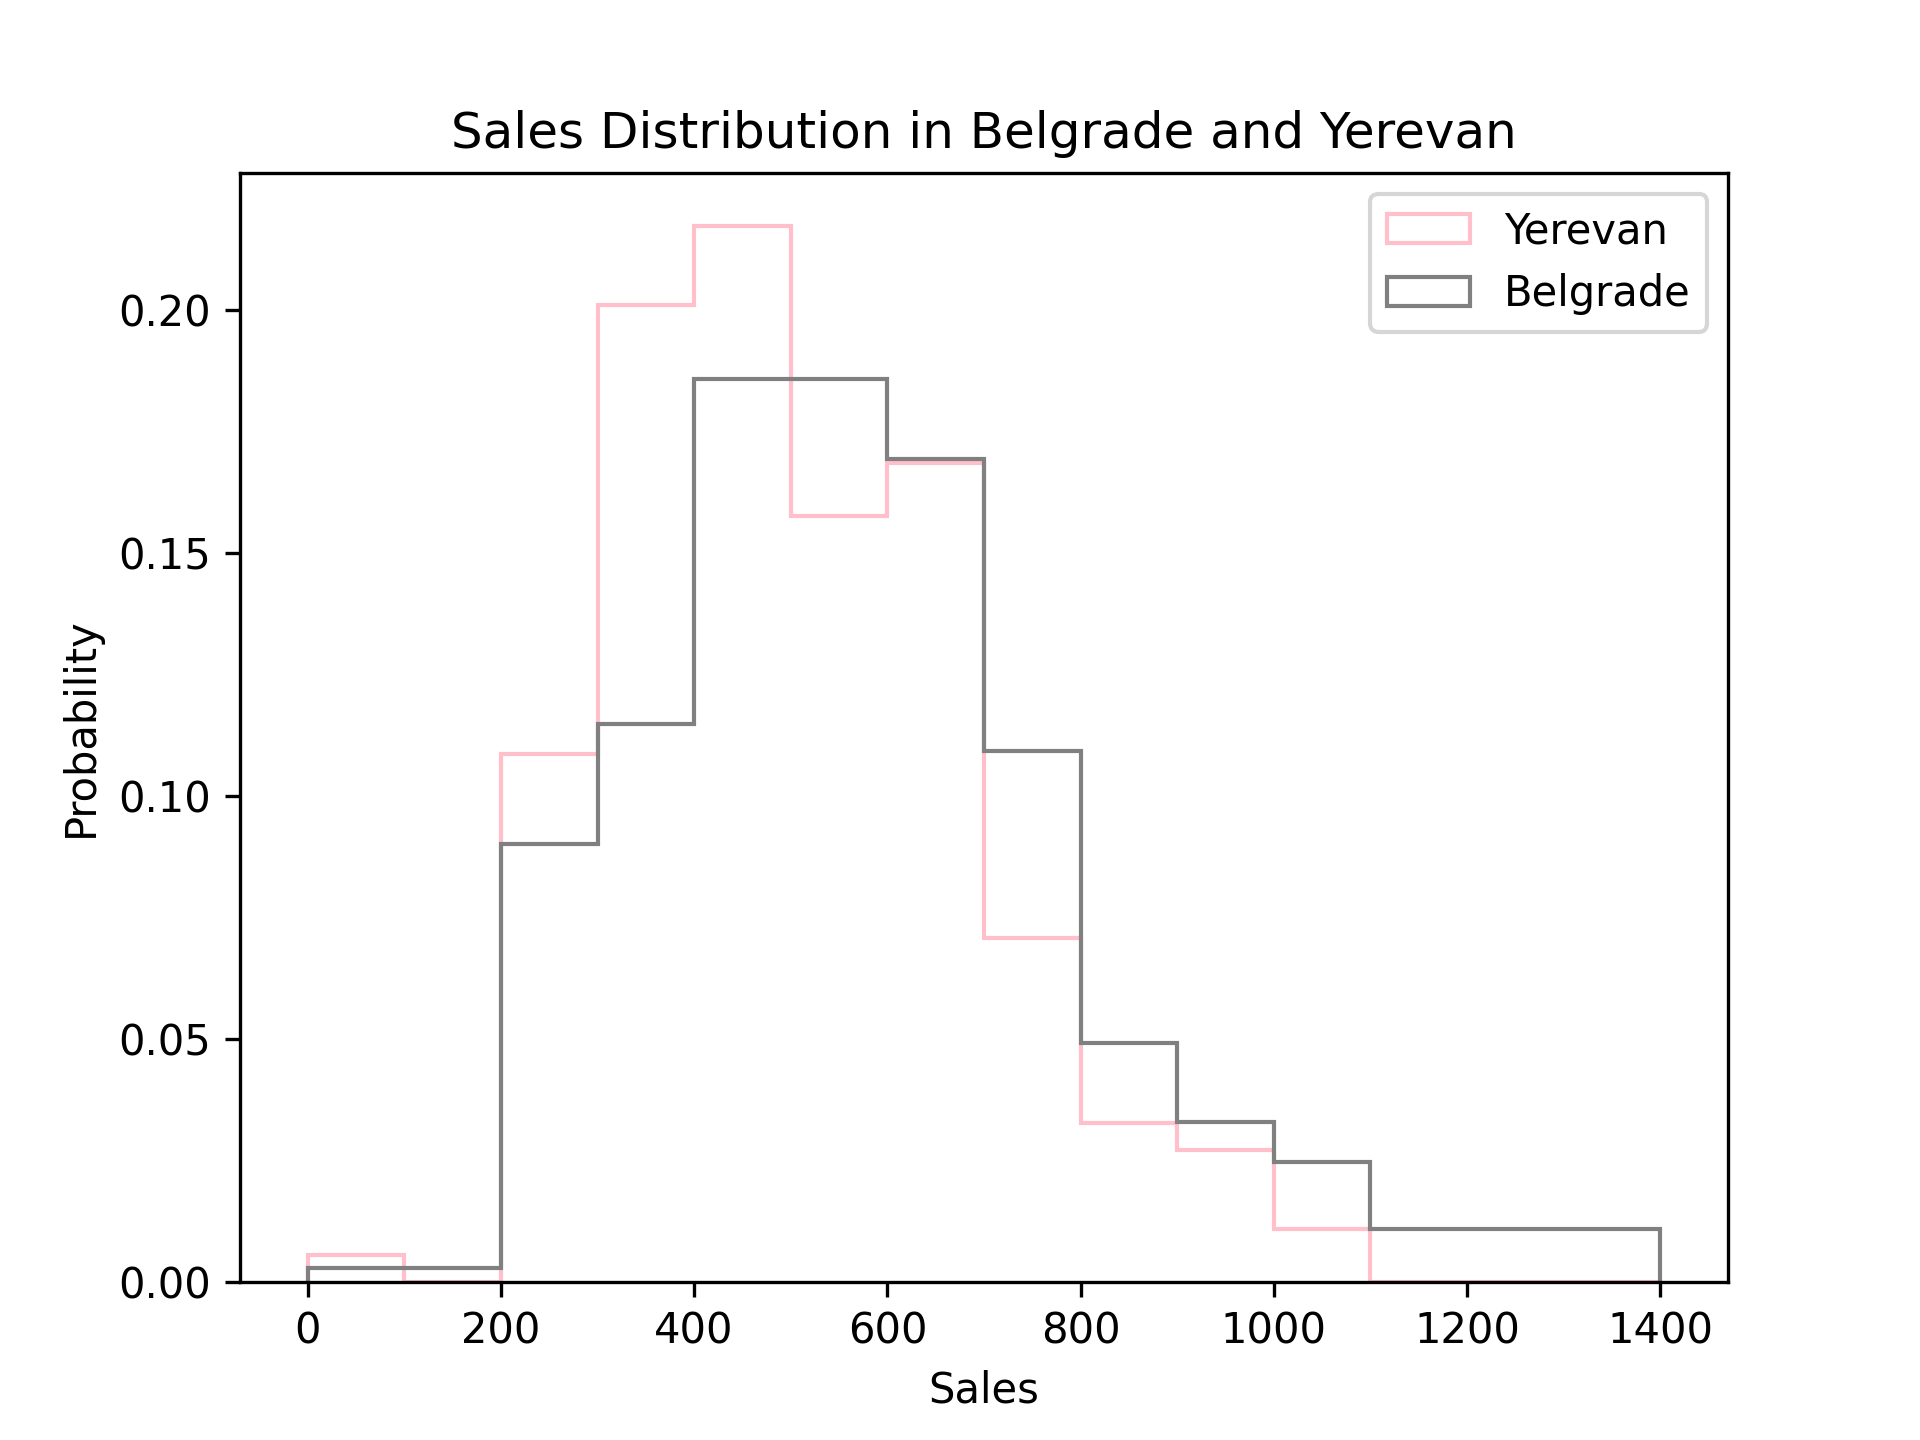
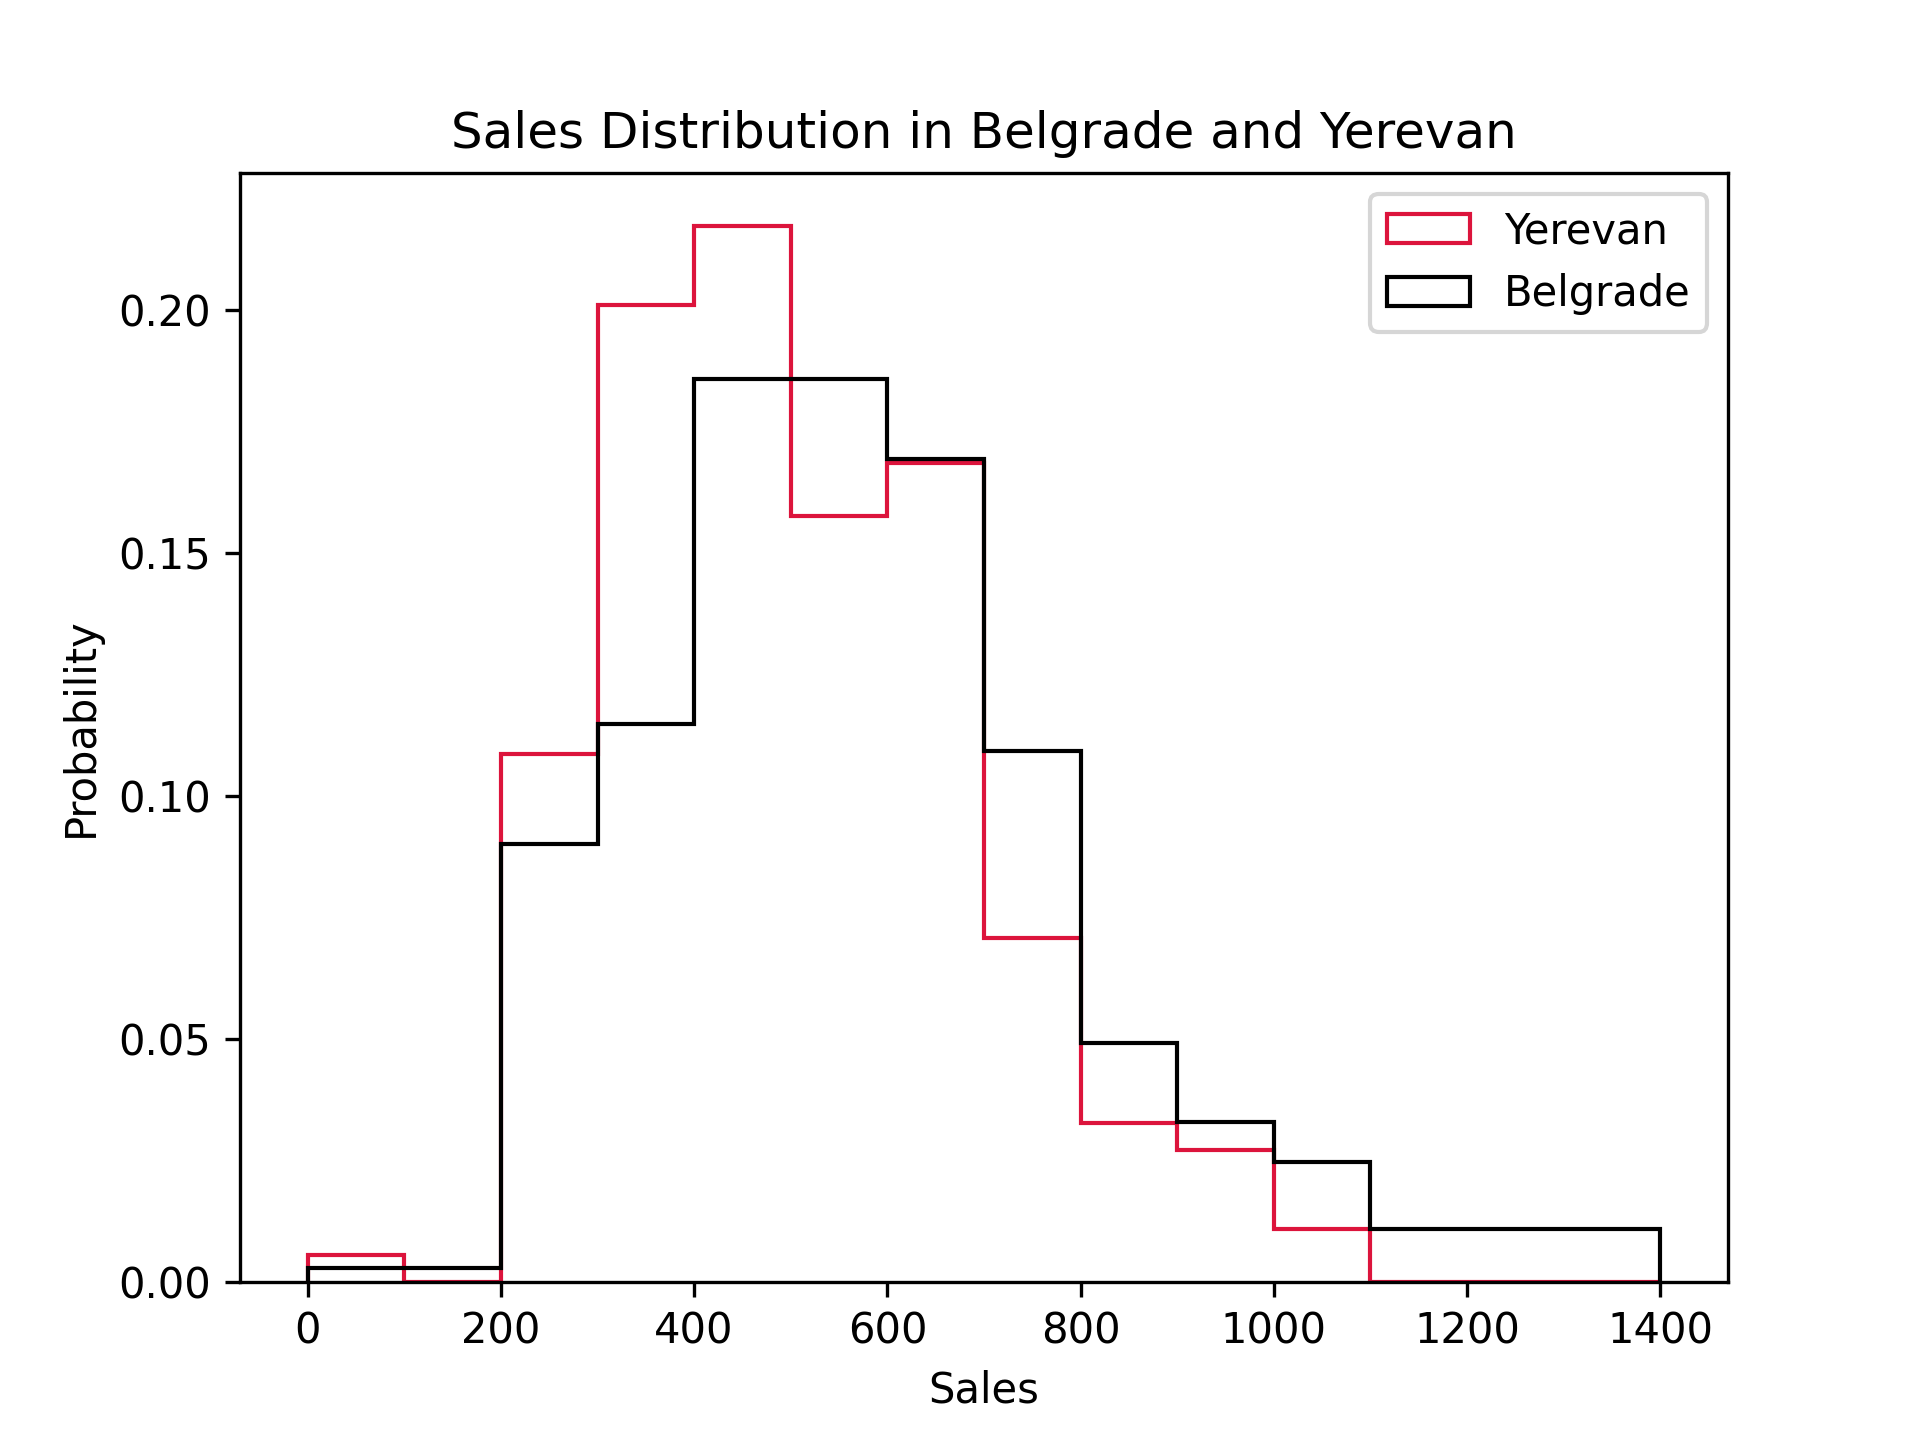
fix: colors for matplotlib base practice, naming issues

diff --git a/3_2_histograms_matplotlib/2_practice/1_base/task.py b/3_2_histograms_matplotlib/2_practice/1_base/task.py
@@ -7,9 +7,9 @@ from data import get_bins, get_city_sales, get_weights, read
 def plot(sales: pd.DataFrame) -> plt.Figure:
     fig, ax = plt.subplots()
 
-    line_color_map = {
-        "Yerevan": "pink",
-        "Belgrade": "grey",
+    color_map = {
+        "Yerevan": "crimson",
+        "Belgrade": "black",
     }
 
     for city in ["Yerevan", "Belgrade"]:
@@ -20,7 +20,7 @@ def plot(sales: pd.DataFrame) -> plt.Figure:
             weights=get_weights(city_sales),
             label=city,
             bins=get_bins(sales),
-            color=line_color_map[city],
+            color=color_map[city],
             histtype="step",
         )
 

diff --git a/3_2_histograms_matplotlib/2_practice/1_base/tests/test_task.py b/3_2_histograms_matplotlib/2_practice/1_base/tests/test_task.py
@@ -25,8 +25,8 @@ class PlotTestCase(HistTestMixin, AxisTestMixin, LegendTestMixin, TitleTestMixin
         cls.cities = ["Yerevan", "Belgrade"]
         cls.bins = get_bins(data)
         cls.color_map = {
-            "Yerevan": "pink",
-            "Belgrade": "grey",
+            "Yerevan": "crimson",
+            "Belgrade": "black",
         }
 
     def test_1_1_return_type(self):

diff --git a/3_2_histograms_matplotlib/2_practice/1_base/task.md b/3_2_histograms_matplotlib/2_practice/1_base/task.md
@@ -15,7 +15,7 @@ Visualization requirements:
 
 1. The histogram should be normalized (the bins should sum to `1`).
 2. The histogram should be an unfilled line plot.
-3. Yerevan data should be colored `pink` and Belgrade data should be colored `grey`.
+3. Yerevan data should be colored `crimson` and Belgrade data should be colored `black`.
 4. Both histograms should have common bins, ranging from the lowest rounded-down hundred to the highest rounded-up
    hundred across both cities, with a step of `100`.
 5. X-axis label should be `'Sales'`.
